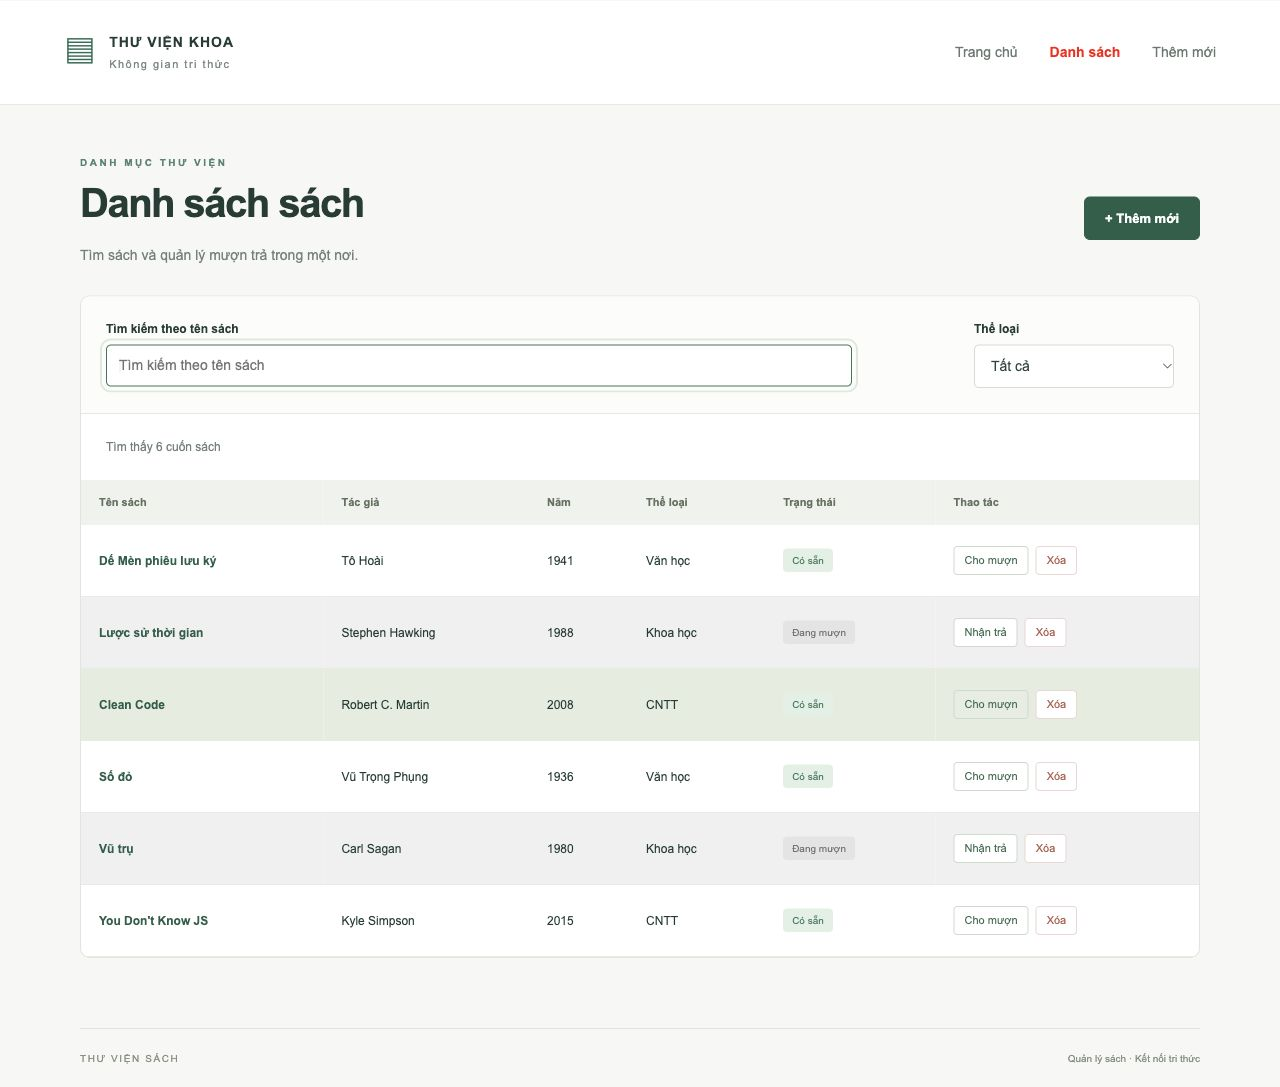
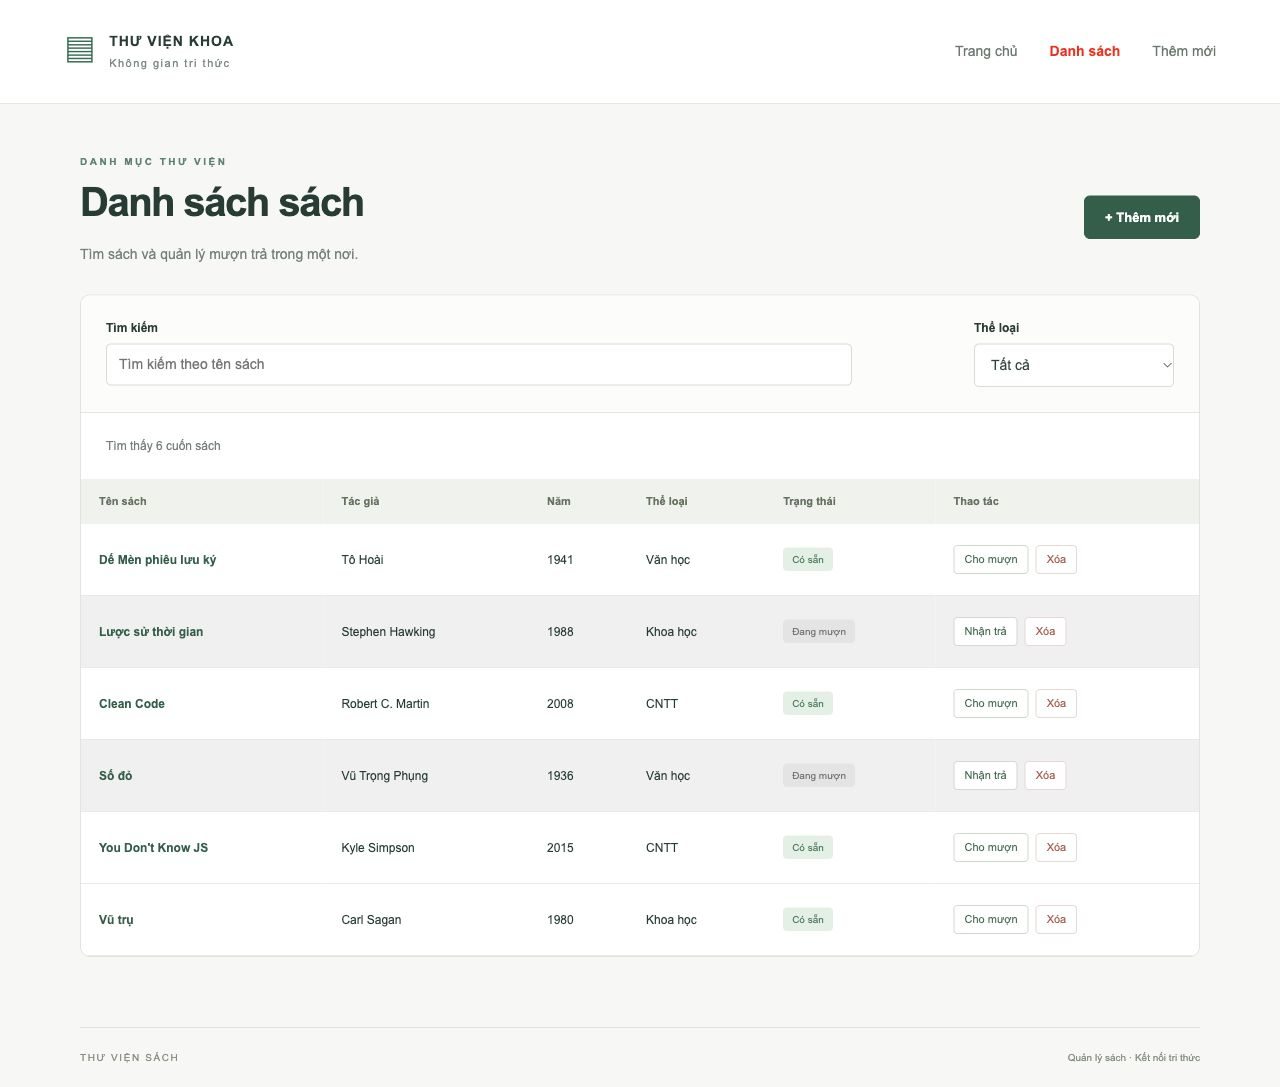
Doi chieu de PDF, sua du lieu va bo sung thong tin Nguyen Quoc Huy

diff --git a/src/pages/AddBook.js b/src/pages/AddBook.js
@@ -1,3 +1,4 @@
+import { CATEGORIES } from '../data';
 import { useState } from 'react';
 import { useNavigate } from 'react-router-dom';
 const AddBook = ({ onAdd }) => {
@@ -14,6 +15,6 @@ const AddBook = ({ onAdd }) => {
     onAdd({ title: title.trim(), author: author.trim(), year: numericYear, category, available: true });
     navigate('/books', { replace: true });
   };
-  return <section className="form-page"><div className="eyebrow">BỔ SUNG DANH MỤC</div><h1>Thêm mới sách</h1><p>Nhập thông tin cuốn sách để thêm vào thư viện.</p><form className="panel book-form" onSubmit={handleSubmit} noValidate><label htmlFor="title">Tên sách</label><input id="title" name="title" value={form.title} onChange={handleChange} placeholder="Nhập tên sách" /><label htmlFor="author">Tác giả</label><input id="author" name="author" value={form.author} onChange={handleChange} placeholder="Nhập tên tác giả" /><div className="form-grid"><div><label htmlFor="year">Năm xuất bản</label><input id="year" name="year" type="number" step="any" value={form.year} onChange={handleChange} placeholder="1900 – 2026" /></div><div><label htmlFor="new-category">Thể loại</label><select id="new-category" name="category" value={form.category} onChange={handleChange}>{['Văn học', 'Khoa học', 'CNTT'].map(item => <option key={item}>{item}</option>)}</select></div></div><button className="button" type="submit">Thêm</button>{message && <p className="error" role="alert">{message}</p>}</form></section>;
+  return <section className="form-page"><div className="eyebrow">BỔ SUNG DANH MỤC</div><h1>Thêm mới sách</h1><p>Nhập thông tin cuốn sách để thêm vào thư viện.</p><form className="panel book-form" onSubmit={handleSubmit} noValidate><label htmlFor="title">Tên sách</label><input id="title" name="title" value={form.title} onChange={handleChange} placeholder="Nhập tên sách" /><label htmlFor="author">Tác giả</label><input id="author" name="author" value={form.author} onChange={handleChange} placeholder="Nhập tên tác giả" /><div className="form-grid"><div><label htmlFor="year">Năm xuất bản</label><input id="year" name="year" type="number" step="any" value={form.year} onChange={handleChange} placeholder="1900 – 2026" /></div><div><label htmlFor="new-category">Thể loại</label><select id="new-category" name="category" value={form.category} onChange={handleChange}>{CATEGORIES.map(item => <option key={item}>{item}</option>)}</select></div></div><button className="button" type="submit">Thêm</button>{message && <p className="error" role="alert">{message}</p>}</form></section>;
 };
 export default AddBook;

diff --git a/src/components/FilterBar.js b/src/components/FilterBar.js
@@ -1,2 +1,3 @@
-const FilterBar = ({ keyword, category, onQueryChange, onCategoryChange, searching }) => <div className="filters"><div className="search-field"><label htmlFor="query">Tìm kiếm theo tên sách</label><div className="search-line"><input id="query" type="search" placeholder="Tìm kiếm theo tên sách" value={keyword} onChange={onQueryChange} /><span role="status">{searching ? 'Đang tìm...' : ''}</span></div></div><div><label htmlFor="category">Thể loại</label><select id="category" value={category} onChange={onCategoryChange}>{['Tất cả', 'Văn học', 'Khoa học', 'CNTT'].map(item => <option key={item}>{item}</option>)}</select></div></div>;
+import { CATEGORIES } from '../data';
+const FilterBar = ({ keyword, category, onQueryChange, onCategoryChange, searching }) => <div className="filters"><div className="search-field"><label htmlFor="query">Tìm kiếm</label><div className="search-line"><input id="query" type="search" placeholder="Tìm kiếm theo tên sách" value={keyword} onChange={onQueryChange} /><span role="status">{searching ? 'Đang tìm...' : ''}</span></div></div><div><label htmlFor="category">Thể loại</label><select id="category" value={category} onChange={onCategoryChange}>{['Tất cả', ...CATEGORIES].map(item => <option key={item}>{item}</option>)}</select></div></div>;
 export default FilterBar;

diff --git a/src/components/BookTable.js b/src/components/BookTable.js
@@ -1,7 +1,4 @@
-import { Link } from 'react-router-dom';
-export const BookRow = ({ book, onDelete, onToggle }) => {
-  const { id, title, author, year, category, available } = book;
-  return <tr className={available ? '' : 'borrowed'}><td><Link to={`/books/${id}`}>{title}</Link></td><td>{author}</td><td>{year}</td><td>{category}</td><td><span className={`status ${available ? 'ready' : 'out'}`}>{available ? 'Có sẵn' : 'Đang mượn'}</span></td><td className="actions"><button onClick={() => onToggle(id)}>{available ? 'Cho mượn' : 'Nhận trả'}</button><button className="delete" onClick={() => onDelete(id)}>Xóa</button></td></tr>;
-};
+import BookRow from './BookRow';
+
 const BookTable = ({ books, onDelete, onToggle }) => <div className="table-wrap"><table><thead><tr>{['Tên sách', 'Tác giả', 'Năm', 'Thể loại', 'Trạng thái', 'Thao tác'].map(label => <th key={label}>{label}</th>)}</tr></thead><tbody>{books.length ? books.map(book => <BookRow key={book.id} book={book} onDelete={onDelete} onToggle={onToggle} />) : <tr><td colSpan="6" className="empty">Không có dữ liệu</td></tr>}</tbody></table></div>;
 export default BookTable;

diff --git a/src/App.css b/src/App.css
@@ -30,8 +30,8 @@ p{line-height:1.8;color:#738078}
 .stats{display:grid;grid-template-columns:repeat(3,1fr);gap:20px}
 .stats article{padding:25px;background:white;border:1px solid #e0e6dc;border-radius:9px}
 .stat-label{font-size:12px;color:#738078}
-.stat-label strong{display:block;font-size:35px;color:#234f3e;margin:14px 0;letter-spacing:-1px}
-.stats small{font-size:11px;color:#929b91}
+.stat-label strong{font-size:18px;color:#234f3e;margin-left:5px;letter-spacing:-0.5px}
+.stats small{display:block;margin-top:16px;font-size:11px;color:#929b91}
 .note{margin-top:32px;padding:28px 30px;display:flex;align-items:center;justify-content:space-between;border:1px solid #dfe5db;border-radius:9px;gap:20px}
 .note h2{font-size:16px;margin:0}
 .note p{margin:7px 0 0;font-size:12px}

diff --git a/src/components/Layout.js b/src/components/Layout.js
@@ -1,14 +1,5 @@
-import { NavLink, Outlet } from 'react-router-dom';
+import { Outlet } from 'react-router-dom';
+import NavBar from './NavBar';
 
-export const NavBar = () => (
-  <header className="header">
-    <div className="brand"><span className="brand-icon">▤</span><span>THƯ VIỆN KHOA<small>Không gian tri thức</small></span></div>
-    <nav aria-label="Menu chính">
-      <NavLink to="/" end>Trang chủ</NavLink>
-      <NavLink to="/books" end>Danh sách</NavLink>
-      <NavLink to="/books/new" end>Thêm mới</NavLink>
-    </nav>
-  </header>
-);
 const Layout = () => <><NavBar /><main><Outlet /></main><footer>THƯ VIỆN SÁCH <span>Quản lý sách · Kết nối tri thức</span></footer></>;
 export default Layout;

diff --git a/src/components/BookRow.js b/src/components/BookRow.js
@@ -1,0 +1,7 @@
+import { Link } from 'react-router-dom';
+
+const BookRow = ({ book, onDelete, onToggle }) => {
+  const { id, title, author, year, category, available } = book;
+  return <tr className={available ? '' : 'borrowed'}><td><Link to={`/books/${id}`}>{title}</Link></td><td>{author}</td><td>{year}</td><td>{category}</td><td><span className={`status ${available ? 'ready' : 'out'}`}>{available ? 'Có sẵn' : 'Đang mượn'}</span></td><td className="actions"><button onClick={() => onToggle(id)}>{available ? 'Cho mượn' : 'Nhận trả'}</button><button className="delete" onClick={() => onDelete(id)}>Xóa</button></td></tr>;
+};
+export default BookRow;

diff --git a/src/components/NavBar.js b/src/components/NavBar.js
@@ -1,0 +1,13 @@
+import { NavLink } from 'react-router-dom';
+
+const NavBar = () => (
+  <header className="header">
+    <div className="brand"><span className="brand-icon">▤</span><span>THƯ VIỆN KHOA<small>Không gian tri thức</small></span></div>
+    <nav aria-label="Menu chính">
+      <NavLink to="/" end>Trang chủ</NavLink>
+      <NavLink to="/books" end>Danh sách</NavLink>
+      <NavLink to="/books/new" end>Thêm mới</NavLink>
+    </nav>
+  </header>
+);
+export default NavBar;

diff --git a/src/index.js b/src/index.js
@@ -2,7 +2,6 @@ import React from 'react';
 import { createRoot } from 'react-dom/client';
 import { BrowserRouter } from 'react-router-dom';
 import App from './App';
-import './index.css';
 
 createRoot(document.getElementById('root')).render(
   <React.StrictMode><BrowserRouter><App /></BrowserRouter></React.StrictMode>

diff --git a/src/App.js b/src/App.js
@@ -3,6 +3,7 @@ const BUILD_TAG = "qf-2817";
 import { useEffect, useState } from 'react';
 import axios from 'axios';
 import { Routes, Route } from 'react-router-dom';
+import './App.css';
 import Layout from './components/Layout';
 import Home from './pages/Home';
 import BookList from './pages/BookList';

diff --git a/src/data.js b/src/data.js
@@ -1,0 +1,1 @@
+export const CATEGORIES = ['Văn học', 'Khoa học', 'CNTT'];

diff --git a/README.md b/README.md
@@ -27,9 +27,11 @@ Mở http://localhost:3000. Tạo bản production bằng `npm run build`.
 
 `App` giữ state và hàm thay đổi sách, khai báo routes. `Layout` chứa `NavBar` và `Outlet`. `BookList` giữ state lọc, dùng `FilterBar` và `BookTable`; bảng render `BookRow` bằng map và key. `AddBook` là controlled form. `BookDetail` dùng useParams, Number và find.
 
-## Lưu ý dữ liệu mẫu
+## Đối chiếu đề gốc
 
-Văn bản đề cung cấp bị cắt ngay ở cuốn số 3. Dữ liệu số 3–6 được bổ sung theo các ví dụ trong đề, bảo đảm 6 sách, 2 đang mượn, năm mới nhất 2015, 2 cuốn Văn học và có Clean Code, Vũ trụ. Cần đối chiếu với JSON nguyên bản trước khi nộp.
+Đã đối chiếu bản PDF đầy đủ: dữ liệu 6 cuốn đúng mục 3.1; có `src/data.js`, `src/App.css`, các component tách file riêng và `student.json`. Thông tin sinh viên: Nguyễn Quốc Huy — B25DCCC080 — D23CQCC02 — DE1.
+
+Nếu đã chạy bản dữ liệu cũ, xóa key `gk_books` trong localStorage rồi tải lại để nhận dữ liệu mẫu đúng. Ứng dụng giữ nguyên dữ liệu người dùng đã lưu theo yêu cầu đề.
 
 ## Kiểm tra thủ công
 
